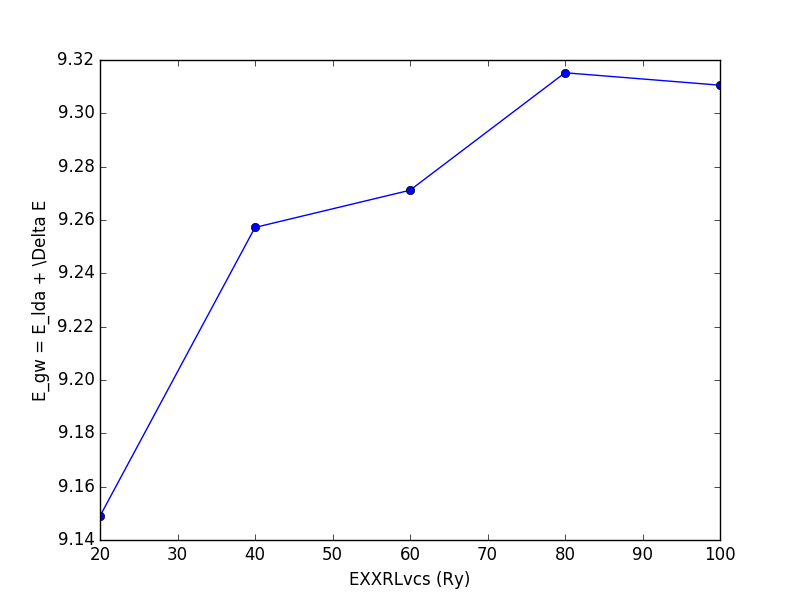
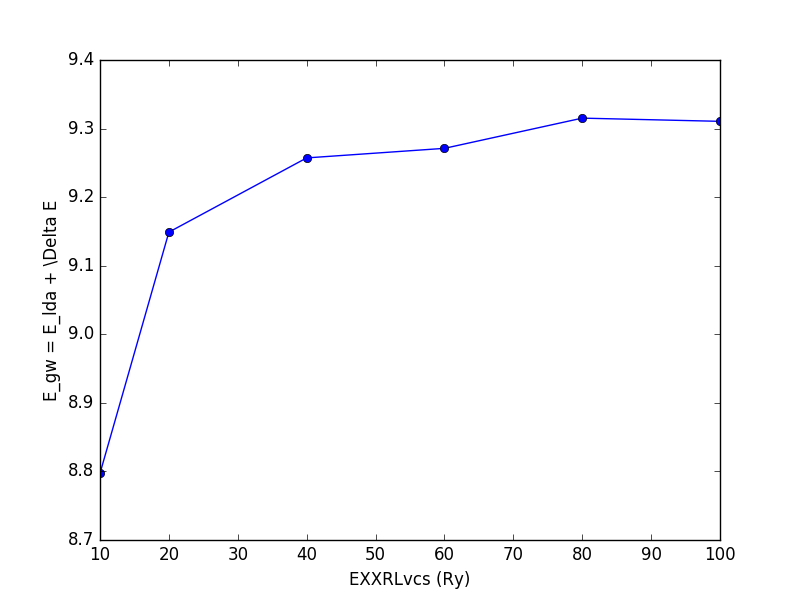
update figures tutorial. gw_conv script

diff --git a/tutorial/bn/gw_conv_bn.py b/tutorial/bn/gw_conv_bn.py
@@ -53,10 +53,10 @@ def gw_convergence():
     y['GbndRnge'] = [[1,10],'']             # Self-energy. Number of bands
     y['QPkrange'] = [ [k_f,k_f,4,5], '' ]
 
-    conv = { 'EXXRLvcs': [[1,20,40,60,80,100],'Ry'],
-             'NGsBlkXp': [[0, 1, 2, 3,4], 'Ry'],
-             'BndsRnXp': [[[1,10],[1,15],[1,20],[1,30],[1,40]],''] ,
-             'GbndRnge': [[[1,10],[1,15],[1,20],[1,30],[1,40]],''] }
+    conv = { 'EXXRLvcs': [[10,10,20,40,60,80,100],'Ry'],
+             'NGsBlkXp': [[0,0,1,2,3], 'Ry'],
+             'BndsRnXp': [[[1,10],[1,10],[1,15],[1,20],[1,30]],''] ,
+             'GbndRnge': [[[1,10],[1,10],[1,15],[1,20],[1,30]],''] }
 
     def run(filename):
         """ Function to be called by the optimize function """

diff --git a/docs/source/tutorial.rst b/docs/source/tutorial.rst
@@ -19,7 +19,7 @@ The initial step is the ground state calculation and the non self-consistent cal
     python gs_bn.py
     python gs_bn.py -sn
 
-We have set 50 bands and the k-grid ``12x12x1``.
+We have set 60 bands and the k-grid ``12x12x1``.
 
 1. GW convergence
 ~~~~~~~~~~~~~~~~~~~~~~~~~~~~~~~~~~~~~~~~~~~~~~~~~~~~
@@ -50,9 +50,16 @@ The convergence is set with a dictionary in which we choose the parameter and th
 .. code-block:: python
 
     conv = { 'EXXRLvcs': [[1,20,40,60,80,100],'Ry'],
-             'NGsBlkXp': [[0,1,2,3,4], 'Ry'],
-             'BndsRnXp': [[[1,5],[1,10],[1,20],[1,30],[1,40]]],''] ,
-             'GbndRnge': [[[1,5],[1,10],[1,20],[1,30],[1,40]],''] }
+             'NGsBlkXp': [[0,0,1,2,3], 'Ry'],
+             'BndsRnXp': [[[1,10],[1,10],[1,15],[1,20],[1,30],[1,40]]],''] ,
+             'GbndRnge': [[[1,10],[1,10],[1,15],[1,20],[1,30],[1,40]],''] }
+
+Note that when we converge a variable, let' say ``EXXRLvcs``, we set all the
+other present in the dictionary to the given minimum value.
+             
+Be awared that some variables have a interdependence in the convergence and you
+should double check that changing the value of a variable does not affect the
+convergence of others.
 
 The class ``YamboIn`` includes the function ``optimize``, which is called here:
 
@@ -113,8 +120,12 @@ Yambopy provides the function ``yambopy analysegw`` to perform the analysis of t
 .. image:: figures/GW_CONV_GbndRnge.png
    :width: 45%
 
-From the convergence plot we can choose now a set of parameters and repeat the calculation for finer k-grids until we
-reach convergence with the k-points. The convergence criteria are left to the user.
+From the convergence plot we can choose now a set of parameters and repeat the calculation for finer k-grids until we reach convergence with the k-points. We have
+intentionally used non-converged parameters. Nevertheless, along this week
+you should have get enough expertise to push the convergence of the parameters
+and determine the correct convergence set of parameters.
+We invite you to enter in the python script, increase the parameters and check
+again the convergence for larger values!
 
 2. GW calculation in a regular grid and plot in a path in the Brillouin zone
 ~~~~~~~~~~~~~~~~~~~~~~~~~~~~~~~~~~~~~~~~~~~~~~~~~~~~~~~~~~~~~~~~~~~~~~~~~~~~~~~~~~~~~
